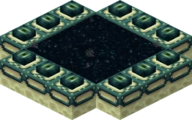
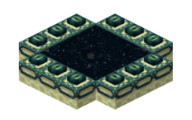
:tada: Add content to MineCrafting (end, stronghold, coal)

diff --git a/src/crafting/examples/minecraft/transformations.py b/src/crafting/examples/minecraft/transformations.py
@@ -73,12 +73,31 @@ def _move_to_zones() -> List[Transformation]:
             Transformation(
                 destination=zone,
                 zones=[NETHER],
+                removed_zone_items=[ItemStack(OPEN_NETHER_PORTAL)],
+                added_zone_items=[ItemStack(OPEN_NETHER_PORTAL)],
                 removed_destination_items=[ItemStack(OPEN_NETHER_PORTAL)],
                 added_destination_items=[ItemStack(OPEN_NETHER_PORTAL)],
             )
         )
 
-    return walk + dig + nether
+    end = [
+        #: Move to STRONGHOLD
+        Transformation(
+            destination=STRONGHOLD,
+            zones=OVERWORLD,
+            removed_player_items=[ItemStack(ENDER_EYE, 2)],
+        ),
+        #: Move to END
+        Transformation(
+            destination=END,
+            removed_zone_items=[ItemStack(OPEN_ENDER_PORTAL)],
+            added_zone_items=[ItemStack(OPEN_ENDER_PORTAL)],
+        ),
+        #: Move back to OVERWORLD
+        Transformation(destination=FOREST, zones=[END]),
+    ]
+
+    return walk + dig + nether + end
 
 
 def _zones_search() -> List[Transformation]:
@@ -267,6 +286,12 @@ def _building() -> List[Transformation]:
             removed_zone_items=[ItemStack(CLOSE_NETHER_PORTAL)],
             added_zone_items=[ItemStack(OPEN_NETHER_PORTAL)],
         ),
+        #: Open END_PORTAL
+        Transformation(
+            removed_player_items=[ItemStack(ENDER_EYE, 9)],
+            removed_zone_items=[ItemStack(CLOSE_ENDER_PORTAL)],
+            added_zone_items=[ItemStack(OPEN_ENDER_PORTAL)],
+        ),
     ]
 
     smelting = [
@@ -281,6 +306,20 @@ def _building() -> List[Transformation]:
         Transformation(
             removed_player_items=[ItemStack(GOLD_ORE, 3), ItemStack(WOOD_PLANK, 2)],
             added_player_items=[ItemStack(GOLD_INGOT, 3)],
+            removed_zone_items=[ItemStack(FURNACE)],
+            added_zone_items=[ItemStack(FURNACE)],
+        ),
+        #: Recipe of IRON_INGOT using COAL at FURNACE
+        Transformation(
+            removed_player_items=[ItemStack(IRON_ORE, 8), ItemStack(COAL, 1)],
+            added_player_items=[ItemStack(IRON_INGOT, 8)],
+            removed_zone_items=[ItemStack(FURNACE)],
+            added_zone_items=[ItemStack(FURNACE)],
+        ),
+        #: Recipe of GOLD_INGOT using COAL at FURNACE
+        Transformation(
+            removed_player_items=[ItemStack(GOLD_ORE, 8), ItemStack(COAL, 1)],
+            added_player_items=[ItemStack(GOLD_INGOT, 8)],
             removed_zone_items=[ItemStack(FURNACE)],
             added_zone_items=[ItemStack(FURNACE)],
         ),

diff --git a/src/crafting/examples/minecraft/env.py b/src/crafting/examples/minecraft/env.py
@@ -10,11 +10,12 @@ Crafting environment adapted to the Minecraft inventory
 
 import os
 
-from crafting.env import CraftingEnv
+from crafting import CraftingEnv, ItemStack
 from crafting.examples.minecraft.transformations import (
     build_minecrafting_transformations,
 )
-from crafting.examples.minecraft.zones import FOREST
+from crafting.examples.minecraft.zones import FOREST, STRONGHOLD, NETHER
+from crafting.examples.minecraft.items import CLOSE_ENDER_PORTAL, CLOSE_NETHER_PORTAL
 
 
 class MineCraftingEnv(CraftingEnv):
@@ -30,6 +31,10 @@ class MineCraftingEnv(CraftingEnv):
             mc_transformations,
             name="MineCrafting",
             start_zone=start_zone,
+            start_zones_items={
+                NETHER: [ItemStack(CLOSE_NETHER_PORTAL)],
+                STRONGHOLD: [ItemStack(CLOSE_ENDER_PORTAL)],
+            },
             resources_path=resources_path,
             **kwargs,
         )

diff --git a/src/crafting/examples/minecraft/items.py b/src/crafting/examples/minecraft/items.py
@@ -72,6 +72,14 @@ MC_COBBLESTONE = McItem(
     hardness=2,
     required_tool_types=[ToolType.PICKAXE],
 )
+#: COAL
+COAL = Item("coal")
+MC_COAL = McItem(
+    COAL,
+    zones=[UNDERGROUND, BEDROCK],
+    hardness=3,
+    required_tool_types=[ToolType.PICKAXE],
+)
 #: IRON_ORE
 IRON_ORE = Item("iron_ore")
 MC_IRON_ORE = McItem(
@@ -174,6 +182,7 @@ MC_ITEMS = [
     MC_WOOD,
     MC_GRAVEL,
     MC_COBBLESTONE,
+    MC_COAL,
     MC_IRON_ORE,
     MC_GOLD_ORE,
     MC_DIAMOND,

diff --git a/src/crafting/examples/minecraft/__main__.py b/src/crafting/examples/minecraft/__main__.py
@@ -3,12 +3,9 @@
 
 """Main module for MineCrafting environment."""
 
-import gym
-
 from crafting.examples.minecraft.env import MineCraftingEnv
 from crafting.render.human import render_env_with_human
 
 if __name__ == "__main__":
-    # env: MineCraftingEnv = gym.make("MineCrafting-NoReward-v1")
     env = MineCraftingEnv()
     render_env_with_human(env)

diff --git a/src/crafting/__init__.py b/src/crafting/__init__.py
@@ -1,0 +1,7 @@
+from crafting.env import CraftingEnv
+from crafting.world import Item, Zone, ItemStack
+from crafting.transformation import Transformation
+from crafting.task import GetItemTask, GoToZoneTask, PlaceItemTask
+from crafting.purpose import Purpose
+
+from crafting.examples.minecraft.env import MineCraftingEnv

diff --git a/src/crafting/examples/minecraft/zones.py b/src/crafting/examples/minecraft/zones.py
@@ -17,5 +17,6 @@ UNDERGROUND = Zone("underground")  #: UNDERGROUND
 BEDROCK = Zone("bedrock")  #: BEDROCK
 NETHER = Zone("nether")  #: NETHER
 END = Zone("end")  #: ENDER
+STRONGHOLD = Zone("stronghold")  #: STRONGHOLD
 
 OVERWORLD = [FOREST, SWAMP, MEADOW, UNDERGROUND, BEDROCK]
